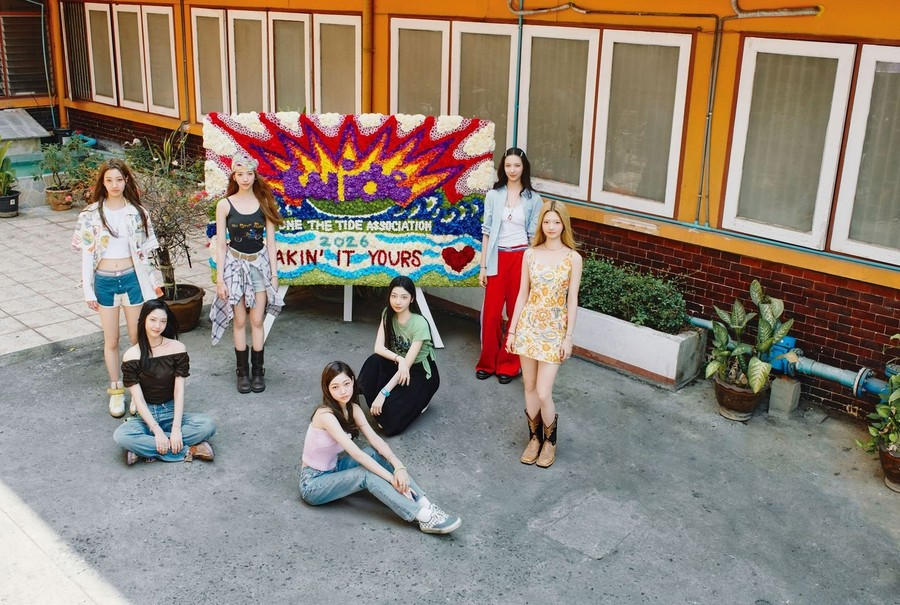
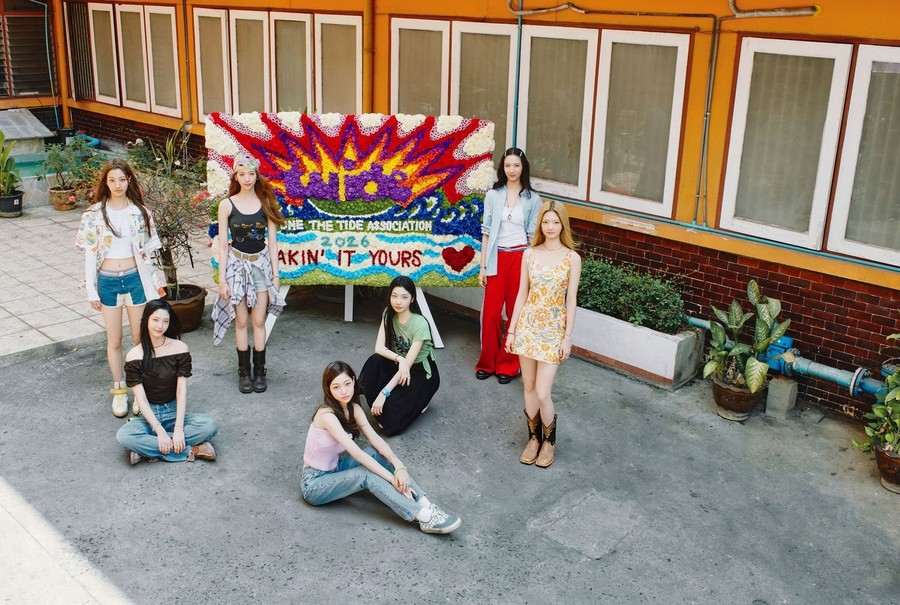
Fit group photos to previous card size

diff --git a/strategy-v18e-image-guard.js b/strategy-v18e-image-guard.js
@@ -49,11 +49,11 @@
     tuideReference: {
       selector: '.ssp-tuide-reference img[alt="TUIDE group"]',
       id:'TUIDE-BENCHMARK-TUNEPLAY-UNIFORM', artist:'TUIDE', section:'Reference Scale',
-      originalVisual:'TUNE & PLAY seven-member wall portrait / benchmark-sized crop',
+      originalVisual:'TUNE & PLAY seven-member courtyard group photo / card-size fitted asset',
       primary:'assets/images/tuide-benchmark-uniform.jpeg',
-      fallback:'https://sportsseoulweb.jp/files/user/2026/ic202608248819045781634081567087699671971656290870008386.jpg',
-      source:'TUIDE official promotional group image / Sports Seoul Japan',
-      sourcePage:'https://sportsseoulweb.jp/star_topic/id%3D157495'
+      fallback:'https://e.usen.com/image/01.%20TUIDE%5B4%5D.jpg',
+      source:'ABD-provided TUIDE promotional group photo / USEN',
+      sourcePage:'https://e.usen.com/news/news-release/hybe-tuide24the-1st-ep-tune-play.html'
     },
     ourbirthdayCompare: {
       selector: '.tuide-compare img[alt="OURBIRTHDAY seven-member group"]',
@@ -67,7 +67,7 @@
     ourbirthdayReference: {
       selector: '.ssp-tuide-reference img[alt="OURBIRTHDAY group"]',
       id:'OURBIRTHDAY-BENCHMARK-OUTDOOR-UNIFORM', artist:'OURBIRTHDAY', section:'Reference Scale',
-      originalVisual:'7-member official outdoor group photo / benchmark-sized crop',
+      originalVisual:'7-member official outdoor group photo / card-size fitted asset',
       primary:'assets/images/ourbirthday-benchmark-uniform.jpeg',
       fallback:'https://chukkae.com/media/images/artists/ourbirthday/283477e28cef3ef14661/1280.webp',
       source:'INNIT Entertainment official outdoor group photo via Chukkae',
@@ -106,5 +106,5 @@
   });
   observer.observe(document.documentElement, {childList:true, subtree:true});
 
-  document.documentElement.dataset.imageRegistry = '18o-clear-uniform-group-photos';
+  document.documentElement.dataset.imageRegistry = '18p-previous-size-face-safe-photos';
 })();

diff --git a/strategy-v18e-correction.css b/strategy-v18e-correction.css
@@ -26,7 +26,7 @@
 [data-route-page="tuide"] .tuide-compare .tuide-artist:hover img{
   filter:grayscale(0) brightness(1) contrast(1.01)!important;
 }
-/* V18N UNIFORM PHOTO QA — let matched image assets fill their existing frames. */
+/* V18P PHOTO QA — keep the previous card size while using face-safe fitted assets. */
 [data-route-page="tuide"] .tuide-compare img[alt="TUIDE group from official video thumbnail"]{
   object-fit:cover!important;
   object-position:center 48%!important;
@@ -37,9 +37,6 @@
   object-fit:cover!important;
   object-position:center!important;
   background:#090b0e;
-}
-[data-route-page="tuide"] .ssp-tuide-reference .ssp-photo-plane{
-  aspect-ratio:900/605!important;
 }
 
 @media(max-width:1024px){
@@ -65,7 +62,7 @@
     display:block!important;
   }
   [data-route-page="tuide"] .ssp-tuide-reference .ssp-artist-card:first-child .ssp-photo-plane{
-    aspect-ratio:900/605!important;
+    aspect-ratio:1/1.07!important;
   }
 }
 @media(prefers-reduced-motion:reduce){

diff --git a/index.html b/index.html
@@ -10,7 +10,7 @@
 <body>
 <script>
 (async()=>{
-  const V='18o';
+  const V='18p';
   const html=await fetch(`index-source.html?v=${V}`,{cache:'no-store'}).then(r=>r.text());
   const doc=new DOMParser().parseFromString(html,'text/html');
 
